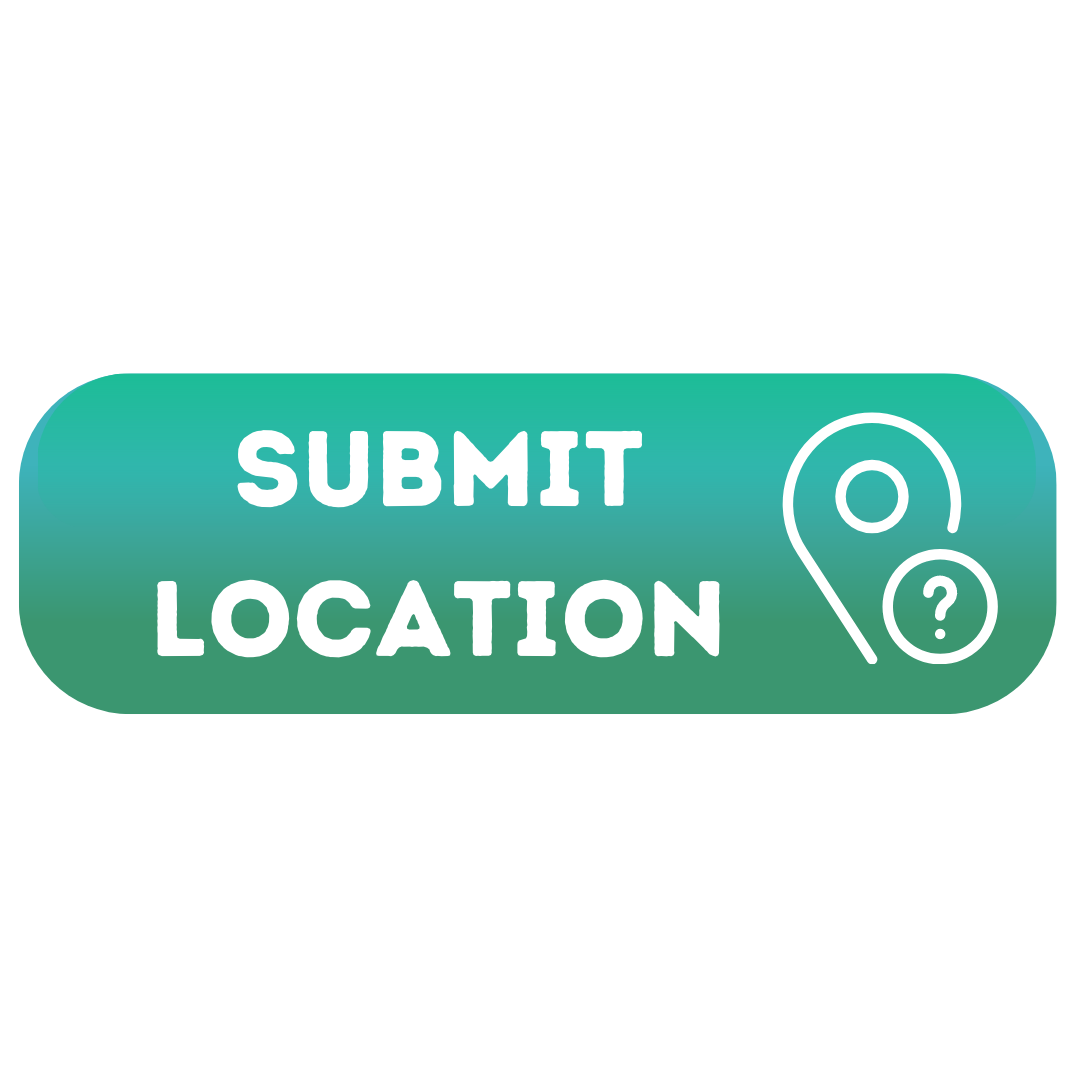
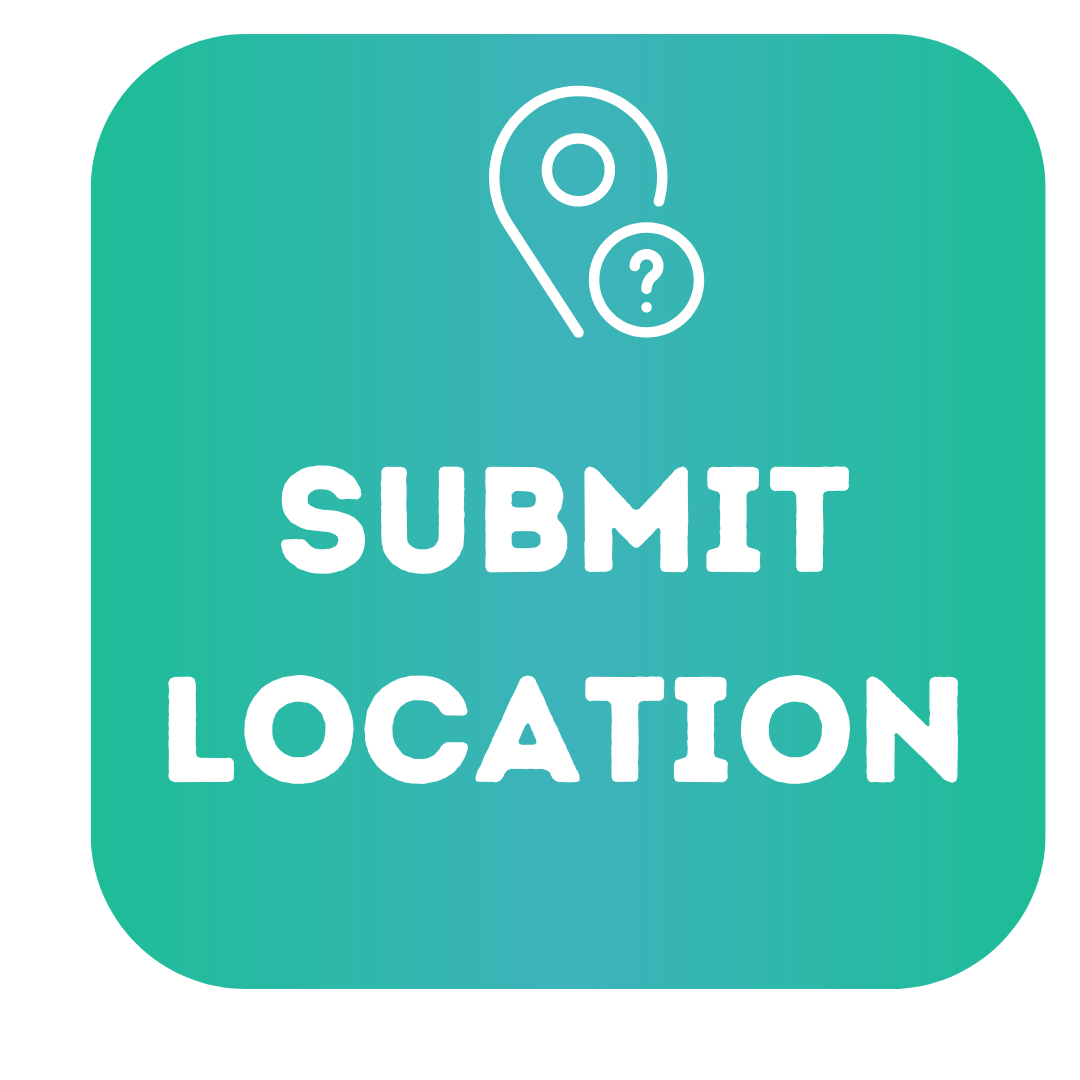
Implementing yellow arrow, submit location squared button and fixing position of 'Please try again'

diff --git a/frontend/src/components/locations/LocationOneClues.js b/frontend/src/components/locations/LocationOneClues.js
@@ -113,7 +113,7 @@ const LocationOneClues = ({ route, navigation }) => {
           locationCounter + 1
         } of 5`}</Text>
 
-        <Text>{render ? 'Please try again' : ''}</Text>
+        <Text style={styles.header2}>{render ? 'Please try again' : ''}</Text>
       </View>
 
       {/* First Clue ']' */}
@@ -180,9 +180,14 @@ const LocationOneClues = ({ route, navigation }) => {
         </TouchableOpacity>
 
         {/* give up */}
-
         {showValue4 && confirmedReveal ? (
-          <View style={styles.giveUpBorder}>
+          <View style={styles.yellowButton}>
+            <ImageBackground
+            source={require('../../images/yellow-button.png')}
+            resizeMode="cover"
+            style={styles.yellowButton}
+          ></ImageBackground>
+
             <Text style={styles.textGiveUp}>
               {chosenRoutes.locations[locationCounter].name}
             </Text>
@@ -220,14 +225,27 @@ const styles = StyleSheet.create({
     position: 'absolute',
     marginHorizontal: 15,
   },
-
+  
+  // Location _ of 5
   header: {
     fontSize: 22,
-    flexDirection: 'column',
+    flexDirection:'column',
     color: '#204376',
     fontWeight: 'bold',
-    marginTop: 140,
+    marginTop: 130,
     marginLeft: 120,
+    marginRight: 50,
+  },
+
+  // Please try again
+  header2: {
+    position: 'absolute',
+    fontSize: 20,
+    flexDirection:'column',
+    color: 'red',
+    fontWeight: 'bold',
+    marginTop: 520,
+    marginLeft: 10,
     marginRight: 50,
   },
 
@@ -245,10 +263,10 @@ const styles = StyleSheet.create({
     textAlign: 'center',
     borderRadius: 25,
     backgroundColor: '#F3FAFA',
-    marginVertical: 20,
+    marginVertical: 15,
     marginHorizontal: 25,
   },
-
+  
   // get clues buttons images
   buttonContainer1: {
     position: 'absolute',
@@ -261,14 +279,14 @@ const styles = StyleSheet.create({
     position: 'absolute',
     alignItems: 'center',
     width: '100%',
-    marginTop: 275,
+    marginTop: 255,
     marginBottom: 10,
   },
   buttonContainer3: {
     position: 'absolute',
     alignItems: 'center',
     width: '100%',
-    marginTop: 400,
+    marginTop: 355,
     marginBottom: 10,
   },
   image: {
@@ -280,34 +298,34 @@ const styles = StyleSheet.create({
   submitLocation: {
     resizeMode: 'contain',
     height: 170,
-    width: 180,
-    marginLeft: -5,
-  },
-  giveUp: {
-    resizeMode: 'contain',
-    height: 170,
-    width: 180,
-    marginRight: 5,
-    marginBottom: 10,
+    width: 110,
     marginLeft: 5,
   },
-  giveUpBorder: {
-    position: 'absolute',
-    borderRadius: 25,
-    backgroundColor: '#FFDE59',
-    marginVertical: 55,
-    // marginHorizontal: 150,
-    marginLeft: 170,
+  // red giveUp button
+  giveUp: {
+    resizeMode: 'contain',
+    height: 150,
+    width: 220,
     marginRight: 5,
+    marginBottom: 10,
+    marginLeft: 0,
+  },
+
+  yellowButton: {
+    position: 'absolute',
+    padding: 13,
+    height: 140,
+    width: 310,
+    marginLeft: 45,
   },
   // Text of location revealed
   textGiveUp: {
     fontSize: 18,
     color: '#204376',
     fontWeight: 'bold',
-    padding: 20,
-    marginLeft: 1,
-    marginRight: 10,
+    padding: 1,
+    marginTop: 55,
+    marginLeft: 90,
   },
   page: {
     flex: 1,
